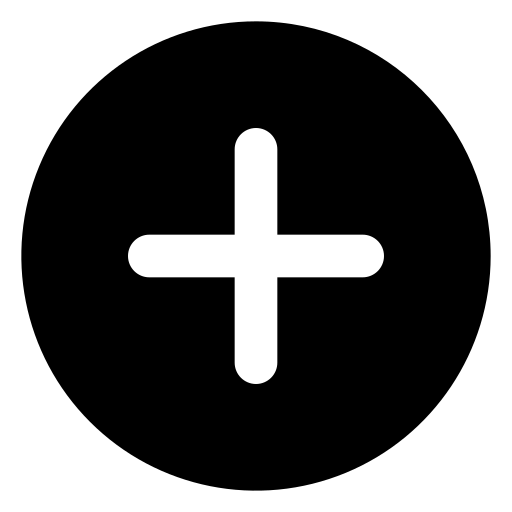
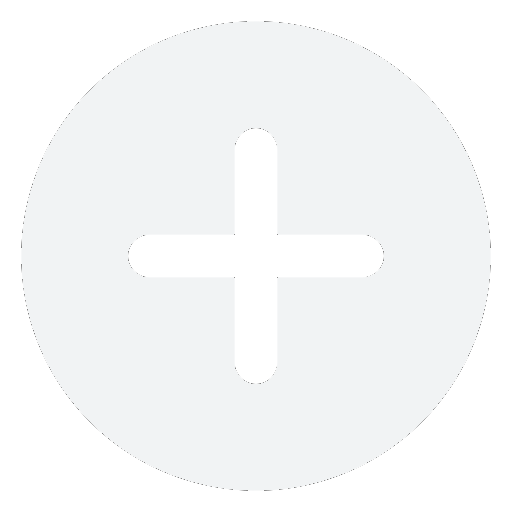
Tailwind CSS migration - Stage 3
- Integrate variables for colors
- Update images
- Update sidebar
- Delete old ToggleSidePanelButton

diff --git a/frontend/src/components/RegisterModal.jsx b/frontend/src/components/RegisterModal.jsx
@@ -13,25 +13,25 @@ export default function RegisterModal({onLogin, onClose}) {
     <div className='modalBackdrop'>
       <div className='registerModalContainer'>
         <div className='relative flex justify-center items-center'>
-          <label className='text-black text-lg text-bold mt-[20px]'> Register </label>
-          <Button className='absolute top-[5px] right-[5px] text-black text-lg font-semibold border-none bg-none rounded-[10px]' onClick={onClose}> X </Button> 
+          <label className='text-[var(--color-modal-text)] text-lg text-bold mt-[20px]'> Register </label>
+          <Button className='absolute top-[5px] right-[5px] text-[var(--color-modal-text)] text-lg font-semibold border-none bg-none rounded-[10px]' onClick={onClose}> X </Button> 
         </div>
 
         <div className='modalBody'>
           <div className='loginComponents'>
             <div className='flex flex-row gap-[22px]'>
-                <Input type='text' className='bg-[#d3d3d3] text-black h-[35px] border-none pl-[10px]' placeholder='First Name' value={firstName} onChange={(e) => handleFirstNameChange(e)} />
-                <Input type='text' className='bg-[#d3d3d3] text-black h-[35px] border-none pl-[10px]' placeholder='Last Name' value={lastName} onChange={(e) => handleLastNameChange(e)} />
+                <Input type='text' className='bg-[var(--color-modal-textarea)] text-[var(--color-modal-text)] h-[35px] border-none pl-[10px]' placeholder='First Name' value={firstName} onChange={(e) => handleFirstNameChange(e)} />
+                <Input type='text' className='bg-[var(--color-modal-textarea)] text-[var(--color-modal-text)] h-[35px] border-none pl-[10px]' placeholder='Last Name' value={lastName} onChange={(e) => handleLastNameChange(e)} />
             </div>
-            <Input type='email' className='bg-[#d3d3d3] text-black h-[35px] border-none pl-[10px]' placeholder='Email' value={email} onChange={(e) => handleEmailChange(e)} />
-            <Input type='password' className='bg-[#d3d3d3] text-black h-[35px] border-none pl-[10px]' placeholder='Password' value={password} onChange={(e) => handlePasswordChange(e)} />
+            <Input type='email' className='bg-[var(--color-modal-textarea)] text-[var(--color-modal-text)] h-[35px] border-none pl-[10px]' placeholder='Email' value={email} onChange={(e) => handleEmailChange(e)} />
+            <Input type='password' className='bg-[var(--color-modal-textarea)] text-[var(--color-modal-text)] h-[35px] border-none pl-[10px]' placeholder='Password' value={password} onChange={(e) => handlePasswordChange(e)} />
             
             <div className='self-center pt-[10px]'>
               { registerLoading ? 
                 <>
                 <div className = 'loginLoadingDiv'></div>
                 </> : <>
-                <Button className='mt-[5px] pl-[20px] pr-[20px] text-black border-black rounded-[5px] bg-[#508991]' onClick={async () => {
+                <Button className='mt-[5px] pl-[20px] pr-[20px] text-[var(--color-text)] border-none rounded-[5px] bg-[#508991] hover:bg-[#427780]' onClick={async () => {
                   setRegisterLoading(true);
                   const success = await register();
                   if(success){
@@ -45,8 +45,8 @@ export default function RegisterModal({onLogin, onClose}) {
         </div>
 
          <div className='flex justify-center items-center mt-[10px]'>
-          <p className='text-black'> Already have an account? </p>
-          <Button className='bg-none border-none text-blue-500 pl-[5px] text-md' onClick={onLogin}> Login now!</Button>
+          <p className='text-[var(--color-modal-text)]'> Already have an account? </p>
+          <Button className='bg-none border-none text-[var(--color-modal-auth-button)] pl-[5px] text-md hover:text-[var(--color-modal-auth-button-hover)]' onClick={onLogin}> Login now!</Button>
          </div>
         </div>
       </div>

diff --git a/frontend/src/components/LoginModal.jsx b/frontend/src/components/LoginModal.jsx
@@ -12,21 +12,21 @@ export default function LoginModal({onRegister, onClose, onLogin, onLoginClose})
     <div className='modalBackdrop'>
       <div className='loginModalContainer'>
         <div className='relative flex justify-center items-center'>
-          <label className='text-black text-lg text-bold mt-[20px]'> Login </label>
-          <Button className='absolute top-[5px] right-[5px] text-black text-lg font-semibold border-none bg-none rounded-[10px]' onClick={onClose}> X </Button> 
+          <label className='text-[var(--color-modal-text)] text-lg text-bold mt-[20px]'> Login </label>
+          <Button className='absolute top-[5px] right-[5px] text-[var(--color-modal-text)] text-lg font-semibold rounded-[10px]' onClick={onClose}> X </Button> 
         </div>
 
         <div className='modalBody'>
           <div className='flex flex-col gap-2.5 mt-[35px] px-5'>
-            <Input type='email' className='bg-[#d3d3d3] text-black h-[35px] border-none pl-[10px]' placeholder='Email' value={email} onChange={(e) => handleEmailChange(e)} />
-            <Input type='password' className='bg-[#d3d3d3] text-black h-[35px] border-none pl-[10px]' placeholder='Password' value={password} onChange={(e) => handlePasswordChange(e)} />
+            <Input type='email' className='bg-[var(--color-modal-textarea)] text-[var(--color-modal-text)] h-[35px] border-none pl-[10px]' placeholder='Email' value={email} onChange={(e) => handleEmailChange(e)} />
+            <Input type='password' className='bg-[var(--color-modal-textarea)] text-[var(--color-modal-text)] h-[35px] border-none pl-[10px]' placeholder='Password' value={password} onChange={(e) => handlePasswordChange(e)} />
             
             <div className='self-center pt-[10px]'>
               { loginLoading ? 
                 <>
                 <div className = 'loginLoadingDiv'></div>
                 </> : <>
-                <Button className='mt-[5px] pl-[20px] pr-[20px] text-black border-black rounded-[5px] bg-[#508991]' onClick={async () => {
+                <Button className='mt-[5px] pl-[20px] pr-[20px] text-[#F1F3F4] border-none rounded-[5px] bg-[var(--color-buttons)] hover:bg-[var(--color-buttons-hover)]' onClick={async () => {
                   setLoginLoading(true);
                   const success = await login();
                   if(success){
@@ -41,8 +41,8 @@ export default function LoginModal({onRegister, onClose, onLogin, onLoginClose})
         </div>
 
          <div className='flex justify-center items-center mt-[10px]'>
-          <p className='text-black'> Not registered yet? </p>
-          <Button className='bg-none border-none text-blue-500 pl-[5px] text-md' onClick={onRegister}> Register now!</Button>
+          <p className='text-[var(--color-modal-text)]'> Not registered yet? </p>
+          <Button className='bg-none border-none text-[var(--color-modal-auth-button)] pl-[5px] text-md hover:text-[var(--color-modal-auth-button-hover)]' onClick={onRegister}> Register now!</Button>
          </div>
 
         </div>

diff --git a/frontend/src/components/SidePanel.jsx b/frontend/src/components/SidePanel.jsx
@@ -4,9 +4,11 @@ import UserIcon from './UserIcon';
 import LoginButton from './LoginButton';
 import LogoutButton from './LogoutButton';
 import UserChat from './UserChat';
+import { useState } from 'react';
 
 export default function SidePanel({user, firstName, lastName, chats, clearChat, updateUserChat, deleteUserChat, setLoginModal, setRegisterModal}) {
   const { open } = useSidebar();
+  const [ selectedChat, setSelectedChat ] = useState(null);
 
   return(
     <Sidebar collapsible='icon'>
@@ -14,7 +16,7 @@ export default function SidePanel({user, firstName, lastName, chats, clearChat, 
         <div className='grid grid-cols-[1fr_auto] items-center'>
           <NewChatButton isOpen={open} onClick={clearChat}/>
           <div className='flex justify-end pt-[10px]'>
-            <SidebarTrigger />
+            <SidebarTrigger className='text-[var(--color-text)] hover:bg-[var(--color-chats-hover)]'/>
           </div>
         </div>
         { user ? (
@@ -24,11 +26,18 @@ export default function SidePanel({user, firstName, lastName, chats, clearChat, 
          ) : null }
       </SidebarHeader>
 
-      <SidebarContent className={'pt-[20px]'}>
+      <SidebarContent className={'pt-[40px]'}>
         {user ? (
           <>
+            <div className='pl-[15px] text-[var(--color-text-muted)]'>
+              <text>Recent Chats</text>
+            </div>
             {chats.map(chat => (
-              <UserChat key={chat.chatID} title={chat.title} onClick={() => updateUserChat(chat.chatID)} onDelete={() => deleteUserChat(chat.chatID)} />
+              <UserChat key={chat.chatID} title={chat.title} onClick={() => {
+                setSelectedChat(chat.chatID);
+                updateUserChat(chat.chatID);
+              }
+            } onDelete={() => deleteUserChat(chat.chatID)} isSelected={selectedChat == chat.chatID}/>
             ))}
           </>
         ) : null }

diff --git a/frontend/src/components/UserIcon.jsx b/frontend/src/components/UserIcon.jsx
@@ -2,15 +2,15 @@
 export default function UserIcon({isOpen, firstName, lastName}) {
   return(
     <>
-        <div className={`${isOpen ? 'grid grid-cols-[1fr_3fr] pl-[10px]' : 'flex justify-center'}`}>
+        <div className={`${isOpen ? 'grid grid-cols-[1fr_4fr] pl-[30px]' : 'flex justify-center'}`}>
           {
             isOpen ? <>
-            <div className='flex justify-center items-center h-[50px] w-[50px] bg-[#5f9ea0] shadow-[0_10px_30px_rgba(0,0,0,0.2)] rounded-full self-center text-white'>{firstName[0]}{lastName[0]}</div>
-            <div className='flex justify-center items-center text-lg text-white pr-[30px] truncate'>{firstName} {lastName}</div>
+            <div className='flex justify-center items-center h-[50px] w-[50px] bg-[var(--color-icon)] shadow-[0_10px_30px_rgba(0,0,0,0.2)] rounded-full self-center text-[var(--color-text)] '>{firstName[0]}{lastName[0]}</div>
+            <div className='flex justify-center items-center text-lg text-[var(--color-text)] pr-[30px] truncate'>{firstName} {lastName}</div>
             </>
             :
             <>
-            <div className='flex justify-center items-center h-[50px] w-[50px] bg-[#5f9ea0] shadow-[0_10px_30px_rgba(0,0,0,0.2)] rounded-full text-white'>{firstName[0]}{lastName[0]}</div>
+            <div className='flex justify-center items-center h-[50px] w-[50px] bg-[var(--color-icon)] text-[var(--color-text)] shadow-[0_10px_30px_rgba(0,0,0,0.2)] rounded-full'>{firstName[0]}{lastName[0]}</div>
             </>
           }       
         </div>

diff --git a/frontend/src/App.css b/frontend/src/App.css
@@ -581,7 +581,7 @@ html, body, #root {
   --accent: oklch(0.97 0 0);
   --accent-foreground: oklch(0.205 0 0);
   --destructive: oklch(0.577 0.245 27.325);
-  --border: #1e1e20;
+  --border: #303239;
   --input: oklch(0.922 0 0);
   --ring: oklch(0.708 0 0);
   --chart-1: oklch(0.87 0 0);
@@ -590,15 +590,32 @@ html, body, #root {
   --chart-4: oklch(0.371 0 0);
   --chart-5: oklch(0.269 0 0);
   --radius: 0.625rem;
-  --sidebar: #1e1e20;
+  --sidebar: #15161A;
   --sidebar-foreground: white;
   --sidebar-primary: oklch(0.205 0 0);
   --sidebar-primary-foreground: oklch(0.985 0 0);
-  --sidebar-accent: oklch(0.97 0 0);
+  --sidebar-accent: #24262B;
   --sidebar-accent-foreground: oklch(0.205 0 0);
-  --sidebar-border: oklch(0.922 0 0);
+  --sidebar-border: #303239;
   --sidebar-ring: oklch(0.708 0 0);
+
+
+  --color-chatarea: #1C1D21;
+  --color-textarea: #27292F;
+  --color-buttons: #508991;
+  --color-buttons-hover: #427780;
+  --color-text: #F1F3F4;
+  --color-text-muted: #737780;
+  --color-icon: #508991;
+  --color-user-message: #2A3034;
+  --color-chats-hover: #303239;
+  --color-modal-text: black;
+  --color-modal-textarea: #d3d3d3;
+  --color-modal-auth-button: #3B82F6;
+  --color-modal-auth-button-hover: #2563EB;
+
 }
+
 /*
   ---break---
 */

diff --git a/frontend/src/App.jsx b/frontend/src/App.jsx
@@ -15,7 +15,6 @@ import { SidebarInset, SidebarProvider } from './components/ui/sidebar'
 
 function App() {
   const [ prompt, setPrompt ] = useState('');
-  const [ toggleSidePanel, setSidePanel ] = useState(true);
   const [ toggleLoginModal, setLoginModal ] = useState(false);
   const [ toggleRegisterModal, setRegisterModal ] = useState(false);
 
@@ -55,7 +54,7 @@ function App() {
       
       {/* Sidepanel */}
       <SidebarProvider>
-        <SidePanel user={user} firstName={firstName} lastName={lastName} chats={chats} clearChat={clearChat} updateUserChat={updateUserChat} deleteUserChat={deleteUserChat} setLoginModal={setLoginModal} setRegisterModal={setRegisterModal}/>
+        <SidePanel user={user} firstName={firstName} lastName={lastName} chats={chats} clearChat={clearChat} updateUserChat={updateUserChat} deleteUserChat={deleteUserChat} setLoginModal={setLoginModal} setRegisterModal={setRegisterModal} />
         <SidebarInset className='relative flex min-h-svh flex-col'>
           
           {/* Chat Area */}

diff --git a/frontend/src/components/UserChat.jsx b/frontend/src/components/UserChat.jsx
@@ -1,15 +1,15 @@
 import deleteIcon from '/assets/delete.png';
 import { Button } from '@/components/ui/button';
 
-export default function UserChat({title, onClick, onDelete}) {
+export default function UserChat({title, onClick, onDelete, isSelected}) {
   return(
     <>
     <div className='flex items-center w-full gap-0.5'>
-      <Button variant='ghost' className='flex-1 min-w-0 justify-start px-2 mb-[5px] hover:bg-[#5f9ea0]' onClick={onClick}>
+      <Button variant='ghost' className={`flex-1 min-w-0 justify-start pl-[20px] pr-[15px] mb-[5px] hover:bg-[var(--color-chats-hover)] ${isSelected ? 'bg-[var(--sidebar-accent)]' : ''}`} onClick={onClick}>
         <span className='w-full min-w-0 truncate text-left'> {title} </span>
       </Button>
       
-      <Button variant='ghost' size='icon' onClick={onDelete}>
+      <Button variant='ghost' className='hover:bg-[var(--color-chats-hover)]' size='icon' onClick={onDelete}>
         <img className='h-[15px] w-[15px]' src={deleteIcon}/>
       </Button>
     </div>

diff --git a/frontend/src/components/UserTextArea.jsx b/frontend/src/components/UserTextArea.jsx
@@ -3,7 +3,7 @@ import { Textarea } from "@/components/ui/textarea";
 export default function UserTextArea({value, onChange, onKeyDown, isLoggedIn}) {
   return(
     <>
-    <Textarea className={`w-full h-[55px] py-[17px] pr-[50px] ${ isLoggedIn ? 'pl-[60px]' : 'pl-[15px]' } md:text-lg rounded-[20px] border border-[#FFEEDD] resize-none overflow-hidden bg-[#1e1e20]`} value={value} onChange={onChange} onKeyDown={onKeyDown} placeholder='Ask a question...' />
+    <Textarea className={`w-full h-[55px] py-[17px] pr-[50px] ${ isLoggedIn ? 'pl-[60px]' : 'pl-[15px]' } md:text-lg rounded-[20px] border border-[#FFEEDD] resize-none overflow-hidden bg-[var(--color-textarea)]`} value={value} onChange={onChange} onKeyDown={onKeyDown} placeholder='Ask a question...' />
     </>
   )
 }

diff --git a/frontend/src/components/NewChatButton.jsx b/frontend/src/components/NewChatButton.jsx
@@ -3,7 +3,7 @@ import { Button } from '@/components/ui/button';
 export default function NewChatButton({isOpen, onClick}) {
   return(
     <>  
-      <Button variant='ghost' className={`flex items-center p-0 gap-2 mt-2.5 text-white hover:bg-transparent ${isOpen ? '' : 'justify-start mr-[5px] mb-2.5 w-full'}`} onClick={onClick}>
+      <Button variant='ghost' className={`flex items-center p-0 gap-2 mt-2.5 text-[var(--color-text)] hover:bg-transparent ${isOpen ? '' : 'justify-start mr-[5px] mb-2.5 w-full'}`} onClick={onClick}>
         <img className='w-[30px]' src='/assets/add.png'/>
         {
           isOpen ? <>

diff --git a/frontend/src/components/LoginButton.jsx b/frontend/src/components/LoginButton.jsx
@@ -3,7 +3,7 @@ import { Button } from '@/components/ui/button';
 export default function LoginButton({isOpen, onClick}) {
   return(
     <>  
-      <Button className='flex justify-center w-[calc(100%-40px)] mx-5 mb-5 mt-auto box-border overflow-hidden bg-[#508991]' onClick={onClick}>
+      <Button className='flex justify-center w-[calc(100%-40px)] mx-5 mb-5 mt-auto box-border overflow-hidden text-[var(--color-text)] bg-[var(--color-buttons)] hover:bg-[var(--color-buttons-hover)]' onClick={onClick}>
         Login
       </Button>
     </>

diff --git a/frontend/src/components/LogoutButton.jsx b/frontend/src/components/LogoutButton.jsx
@@ -7,7 +7,7 @@ export default function LogoutButton({onLogout}) {
 
   return(
     <>  
-      <Button className='flex justify-center w-[calc(100%-40px)] mx-5 mb-5 mt-auto box-border overflow-hidden bg-[#508991]' onClick={() => {
+      <Button className='flex justify-center w-[calc(100%-40px)] mx-5 mb-5 mt-auto box-border overflow-hidden text-[var(--color-text)] bg-[var(--color-buttons)] hover:bg-[var(--color-buttons-hover)]' onClick={() => {
         logout();
         onLogout();
       }}>

diff --git a/frontend/src/components/SendButton.jsx b/frontend/src/components/SendButton.jsx
@@ -1,10 +1,11 @@
 import { Button } from '@/components/ui/button'
+import sendIcon from '/assets/send.png'
 
 export default function SendButton({onClick}) {
   return(
     <>  
       <Button className='absolute right-[15px] top-1/2 -translate-y-1/2 border-none p-0 hover:border-none' onClick={onClick}>
-        <img className='w-[30px]' src='/assets/send.png'/>
+        <img className='w-[30px]' src='./assets/send.png'/>
       </Button>
     </>
   )
